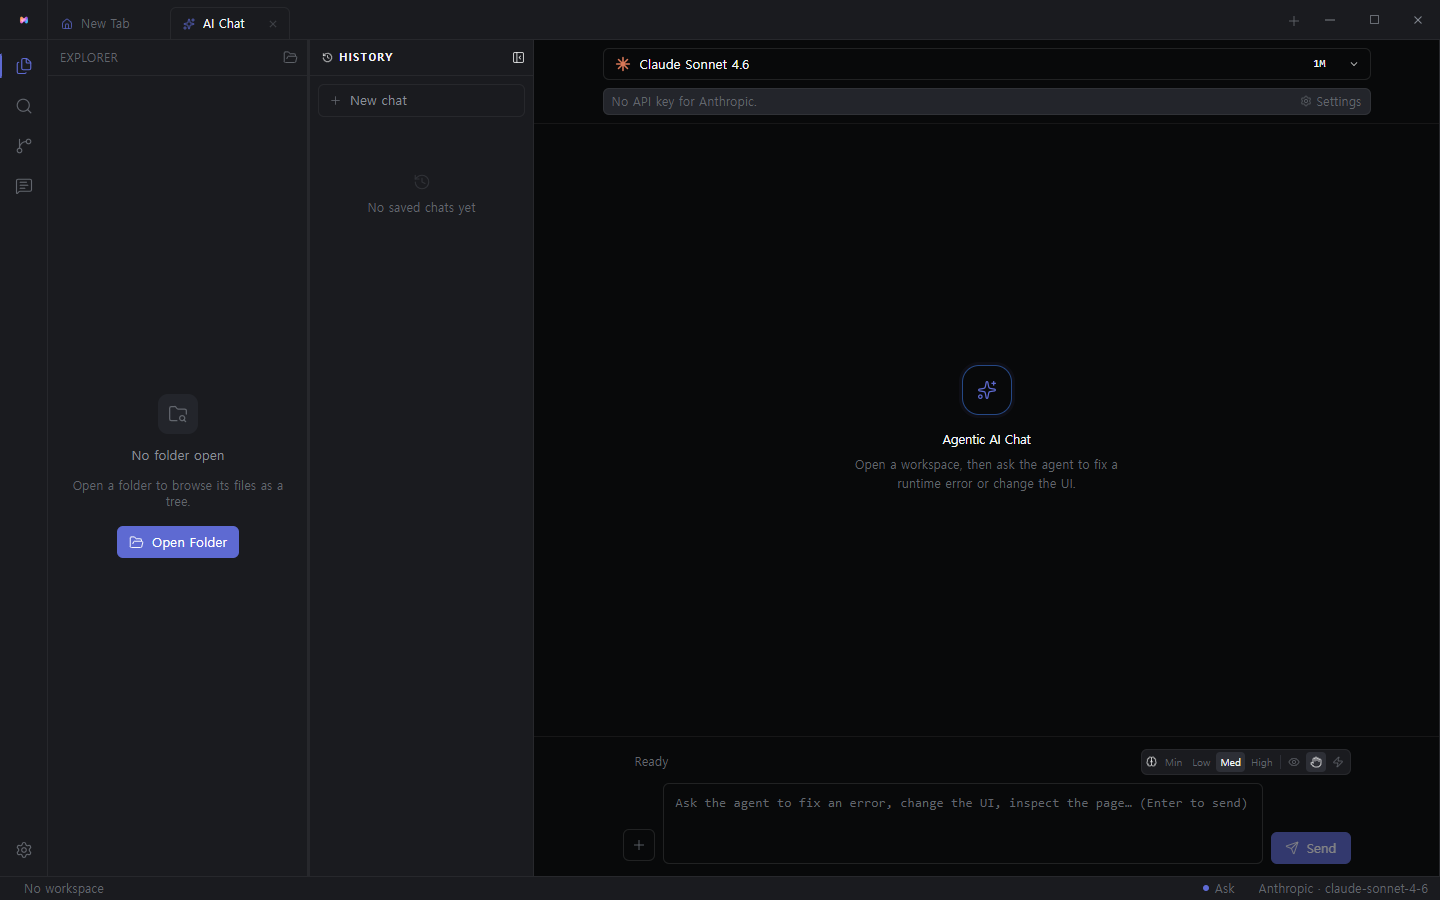
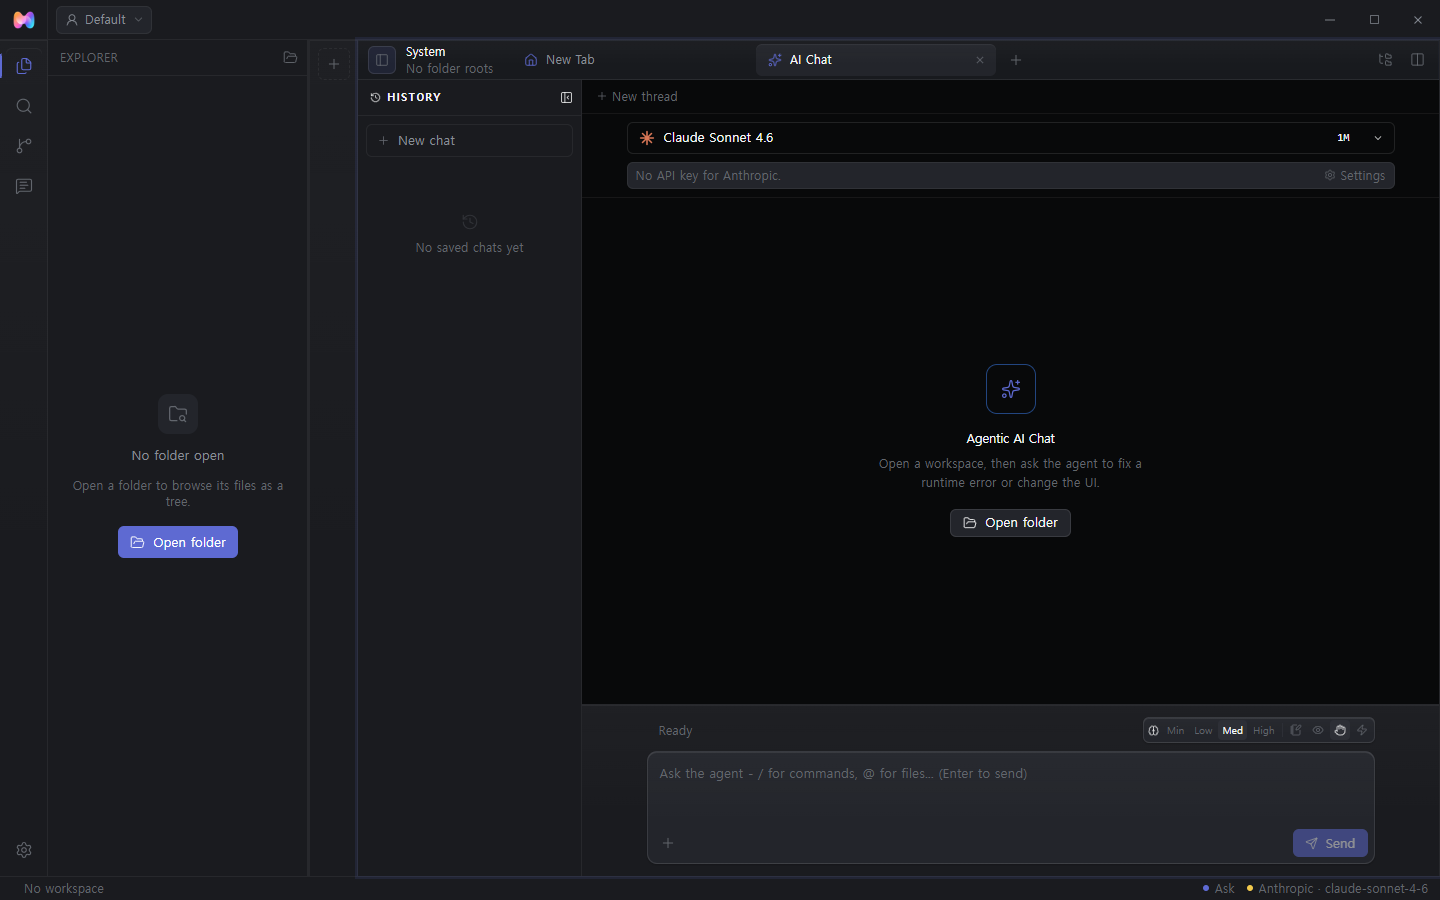
docs: add community standards

diff --git a/CODE_OF_CONDUCT.md b/CODE_OF_CONDUCT.md
@@ -1,0 +1,127 @@
+# Contributor Covenant Code of Conduct
+
+## Our Pledge
+
+We as members, contributors, and leaders pledge to make participation in our
+community a harassment-free experience for everyone, regardless of age, body
+size, visible or invisible disability, ethnicity, sex characteristics, gender
+identity and expression, level of experience, education, socio-economic status,
+nationality, personal appearance, race, religion, or sexual identity and
+orientation.
+
+We pledge to act and interact in ways that contribute to an open, welcoming,
+diverse, inclusive, and healthy community.
+
+## Our Standards
+
+Examples of behavior that contributes to a positive environment for our community
+include:
+
+* Demonstrating empathy and kindness toward other people
+* Being respectful of differing opinions, viewpoints, and experiences
+* Giving and gracefully accepting constructive feedback
+* Accepting responsibility and apologizing to those affected by our mistakes,
+  and learning from the experience
+* Focusing on what is best not just for us as individuals, but for the overall
+  community
+
+Examples of unacceptable behavior include:
+
+* The use of sexualized language or imagery, and sexual attention or advances of
+  any kind
+* Trolling, insulting or derogatory comments, and personal or political attacks
+* Public or private harassment
+* Publishing others' private information, such as a physical or email address,
+  without their explicit permission
+* Other conduct which could reasonably be considered inappropriate in a
+  professional setting
+
+## Enforcement Responsibilities
+
+Community leaders are responsible for clarifying and enforcing our standards of
+acceptable behavior and will take appropriate and fair corrective action in
+response to any behavior that they deem inappropriate, threatening, offensive, or
+harmful.
+
+Community leaders have the right and responsibility to remove, edit, or reject
+comments, commits, code, wiki edits, issues, and other contributions that are not
+aligned to this Code of Conduct, and will communicate reasons for moderation
+decisions when appropriate.
+
+## Scope
+
+This Code of Conduct applies within all community spaces, and also applies when
+an individual is officially representing the community in public spaces. Examples
+of representing our community include using an official e-mail address, posting
+via an official social media account, or acting as an appointed representative at
+an online or offline event.
+
+## Enforcement
+
+Instances of abusive, harassing, or otherwise unacceptable behavior may be
+reported to the community leaders responsible for enforcement at
+duct1235@gmail.com. All complaints will be reviewed and investigated promptly and
+fairly.
+
+All community leaders are obligated to respect the privacy and security of the
+reporter of any incident.
+
+## Enforcement Guidelines
+
+Community leaders will follow these Community Impact Guidelines in determining
+the consequences for any action they deem in violation of this Code of Conduct:
+
+### 1. Correction
+
+**Community Impact**: Use of inappropriate language or other behavior deemed
+unprofessional or unwelcome in the community.
+
+**Consequence**: A private, written warning from community leaders, providing
+clarity around the nature of the violation and an explanation of why the behavior
+was inappropriate. A public apology may be requested.
+
+### 2. Warning
+
+**Community Impact**: A violation through a single incident or series of actions.
+
+**Consequence**: A warning with consequences for continued behavior. No
+interaction with the people involved, including unsolicited interaction with
+those enforcing the Code of Conduct, for a specified period of time. This
+includes avoiding interactions in community spaces as well as external channels
+like social media. Violating these terms may lead to a temporary or permanent
+ban.
+
+### 3. Temporary Ban
+
+**Community Impact**: A serious violation of community standards, including
+sustained inappropriate behavior.
+
+**Consequence**: A temporary ban from any sort of interaction or public
+communication with the community for a specified period of time. No public or
+private interaction with the people involved, including unsolicited interaction
+with those enforcing the Code of Conduct, is allowed during this period.
+Violating these terms may lead to a permanent ban.
+
+### 4. Permanent Ban
+
+**Community Impact**: Demonstrating a pattern of violation of community
+standards, including sustained inappropriate behavior, harassment of an
+individual, or aggression toward or disparagement of classes of individuals.
+
+**Consequence**: A permanent ban from any sort of public interaction within the
+community.
+
+## Attribution
+
+This Code of Conduct is adapted from the [Contributor Covenant][homepage],
+version 2.0, available at
+https://www.contributor-covenant.org/version/2/0/code_of_conduct.html.
+
+Community Impact Guidelines were inspired by [Mozilla's code of conduct
+enforcement ladder](https://github.com/mozilla/diversity).
+
+[homepage]: https://www.contributor-covenant.org
+
+For answers to common questions about this code of conduct, see the FAQ at
+https://www.contributor-covenant.org/faq. Translations are available at
+https://www.contributor-covenant.org/translations.

diff --git a/CONTRIBUTING.md b/CONTRIBUTING.md
@@ -1,0 +1,64 @@
+# Contributing to MaruDesk
+
+MaruDesk is an active desktop-app project. Contributions are welcome when they
+keep the app focused on runtime-aware AI development: browser evidence,
+DevTools, editor/terminal workflows, provider integration, and the mobile relay.
+
+## Before you start
+
+- Check existing issues and pull requests for related work.
+- Keep changes scoped to the package that owns the behavior:
+  - `marudesk/` for the Electron desktop app.
+  - `mobile/` for the Capacitor thin client.
+  - `relay/` for the relay and auth service.
+- Read `AGENTS.md` and, for UI work, `marudesk/DESIGN.md`.
+- Do not include API keys, OAuth tokens, session data, screenshots with secrets,
+  or local workspace paths that should stay private.
+
+## Development setup
+
+Install and run each package from its own directory.
+
+```bash
+cd marudesk
+npm install
+npm run dev
+```
+
+Optional companion packages:
+
+```bash
+cd mobile && npm install && npm run dev
+cd relay && npm install && npm start
+```
+
+## Verification
+
+Run the checks that match your change. For desktop changes, prefer:
+
+```bash
+cd marudesk
+npm run typecheck
+npm run build
+npm run e2e
+```
+
+For targeted main-process or protocol work, use the package harnesses documented
+in `README.md` and `marudesk/README.md`.
+
+## Pull requests
+
+- Explain the user-visible behavior or bug being changed.
+- Include the verification commands you ran and the result.
+- Attach screenshots or short clips for visible UI changes.
+- Call out known limitations, follow-up work, or risky assumptions.
+- Keep unrelated refactors and generated files out of the PR.
+
+## Project boundaries
+
+- TypeScript stays strict. Avoid broad casts, `any`, and suppression comments.
+- Keep shared contracts in `marudesk/shared/*` transport-safe.
+- The mobile client is a thin client; it should not run model, tool, or
+  workspace logic locally.
+- Do not add UI colors outside the design token files called out in
+  `marudesk/DESIGN.md`.

diff --git a/SECURITY.md b/SECURITY.md
@@ -1,0 +1,41 @@
+# Security Policy
+
+MaruDesk handles local workspaces, browser runtime data, provider credentials,
+OAuth flows, remote pairing, and plugin execution. Please report security issues
+privately before publishing details.
+
+## Supported versions
+
+MaruDesk is in active development. Security fixes target the current `master`
+branch and the latest published release when a release exists.
+
+## Reporting a vulnerability
+
+Use GitHub's private vulnerability reporting or Security Advisories flow if it is
+available for this repository. If that is not available, email the maintainer at
+`duct1235@gmail.com`.
+
+Please include:
+
+- A short description of the issue and affected area.
+- Reproduction steps or a minimal proof of concept.
+- Impact, especially whether credentials, local files, browser data, or remote
+  pairing state can be exposed or modified.
+- Relevant version, commit, operating system, and configuration.
+
+Do not include real API keys, OAuth tokens, session cookies, private workspace
+files, or third-party account data in the report.
+
+## Scope
+
+Security-sensitive areas include:
+
+- Provider secrets and OAuth token storage.
+- Browser runtime capture, DevTools, CDP, and embedded-browser automation.
+- Agent tools that read, write, execute commands, or access external MCP servers.
+- Plugin permissions, isolated-worker execution, filesystem, and network access.
+- Remote/mobile pairing, relay traffic, and local server endpoints.
+- Update and release packaging.
+
+Issues in undocumented third-party subscription backends should also be reported
+to the affected provider when appropriate.

diff --git a/SUPPORT.md b/SUPPORT.md
@@ -1,0 +1,22 @@
+# Support
+
+MaruDesk is a personal, in-development project. Support is best-effort.
+
+## Where to ask
+
+- Use GitHub Issues for reproducible bugs, regressions, feature requests, and
+  documentation gaps.
+- Use a security report instead of a public issue for vulnerabilities or anything
+  involving credentials, tokens, private workspace data, or account access.
+
+## Good support requests include
+
+- The package or surface involved: desktop app, mobile client, relay, provider,
+  DevTools, browser, plugins, MCP, or remote pairing.
+- Operating system and MaruDesk version or commit.
+- Clear reproduction steps.
+- Expected behavior and actual behavior.
+- Relevant logs or screenshots with secrets removed.
+
+There is no guaranteed response time, but precise reports are much easier to
+triage.

diff --git a/.github/PULL_REQUEST_TEMPLATE.md b/.github/PULL_REQUEST_TEMPLATE.md
@@ -1,0 +1,19 @@
+## Summary
+
+- Describe what changed and why.
+
+## Verification
+
+- [ ] Ran the relevant package checks
+- [ ] Added or updated tests where the risk justified it
+- [ ] Manually checked the affected UI/workflow when applicable
+
+Commands and results:
+
+```text
+
+```
+
+## Notes
+
+- Call out known limitations, follow-up work, or reviewer context.
